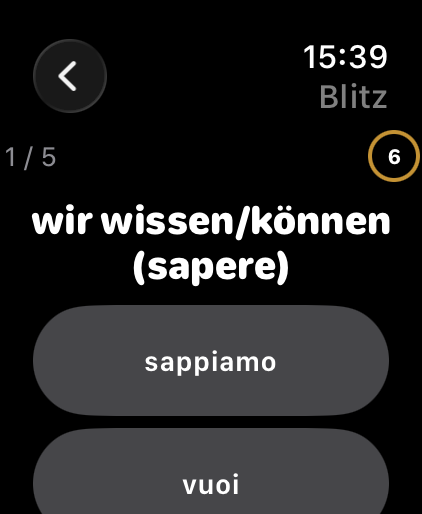
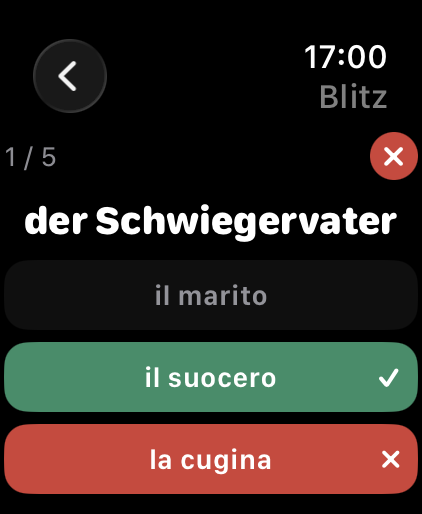
Make the UI test independent of card order, refresh screenshots for the blitz round
The crown check now runs on the first card back that overflows the screen
instead of assuming card 4 does; which cards are due depends on the saved
state. New screenshots show the green/red feedback, the result screen and
the solutions list.

diff --git a/watch/ImparaWatchUITests/FlowUITests.swift b/watch/ImparaWatchUITests/FlowUITests.swift
@@ -25,6 +25,7 @@ final class FlowUITests: XCTestCase {
         let grade = app.buttons["checkmark"]
         XCTAssertFalse(grade.exists, "Bewertungstasten dürfen vor dem Aufdecken nicht da sein")
 
+        var crownChecked = false
         for round in 1...5 {
             if round == 1 {
                 // Die Krone darf die Karte NICHT aufdecken.
@@ -41,15 +42,16 @@ final class FlowUITests: XCTestCase {
             XCTAssertTrue(grade.waitForExistence(timeout: 5), "Karte \(round) nicht aufgedeckt")
             step("03-card-back-\(round)")
 
-            // Karte 4 ist höher als der Bildschirm. Die Krone muss sofort
-            // rollen, ohne dass vorher jemand mit dem Finger gewischt hat.
-            if round == 4 {
-                let before = grade.frame.maxY
-                XCTAssertGreaterThan(before, 257, "Karte 4 sollte über den Rand laufen")
+            // Welche Karten fällig sind, hängt vom gespeicherten Stand ab. Die erste
+            // Rückseite, die über den Rand läuft, muss sich sofort mit der Krone
+            // rollen lassen, ohne dass vorher jemand mit dem Finger gewischt hat.
+            let before = grade.frame.maxY
+            if !crownChecked && before > 257 {
+                crownChecked = true
                 XCUIDevice.shared.rotateDigitalCrown(delta: 1.0)
                 sleep(2)
                 let after = grade.frame.maxY
-                step("03-card-back-4-gerollt")
+                step("03-card-back-\(round)-gerollt")
                 XCTAssertLessThan(after, before - 20,
                                   "Krone rollt die Rückseite nicht (vorher \(before), nachher \(after))")
             }
@@ -57,6 +59,7 @@ final class FlowUITests: XCTestCase {
             grade.tap()
             sleep(1)
         }
+        if !crownChecked { log("Keine der fünf Rückseiten lief über den Rand, Kronen-Prüfung übersprungen") }
         sleep(1)
         step("04-result")
         XCTAssertTrue(app.buttons["Fertig"].exists, "Ergebnisbildschirm fehlt")

diff --git a/watch/README.md b/watch/README.md
@@ -41,7 +41,7 @@ xcrun devicectl device install app --device <UDID> \
   <DerivedData>/Build/Products/Debug-watchos/ImparaWatch.app
 ```
 
-Xcode 27 liefert keine eigene Simulator.app mehr, man kann also nicht einfach mit der Maus im Uhren-Simulator klicken. Die Bedienung prüft stattdessen der UI-Test in `ImparaWatchUITests`: er deckt eine Karte auf, bewertet fünf Karten, spielt eine Blitzrunde und legt zu jedem Schritt einen Screenshot ab.
+Xcode 27 liefert keine eigene Simulator.app mehr, man kann also nicht einfach mit der Maus im Uhren-Simulator klicken. Die Bedienung prüft stattdessen der UI-Test in `ImparaWatchUITests`: er deckt eine Karte auf, bewertet fünf Karten, spielt eine Blitzrunde, öffnet die Lösungen, startet „Falsche wiederholen“ und legt zu jedem Schritt einen Screenshot ab. Die Kronen-Prüfung läuft an der ersten Rückseite, die über den Bildschirm hinausgeht; welche das ist, hängt vom gespeicherten Lernstand ab.
 
 ```
 xcodebuild -project ImparaWatch.xcodeproj -scheme ImparaWatch \
